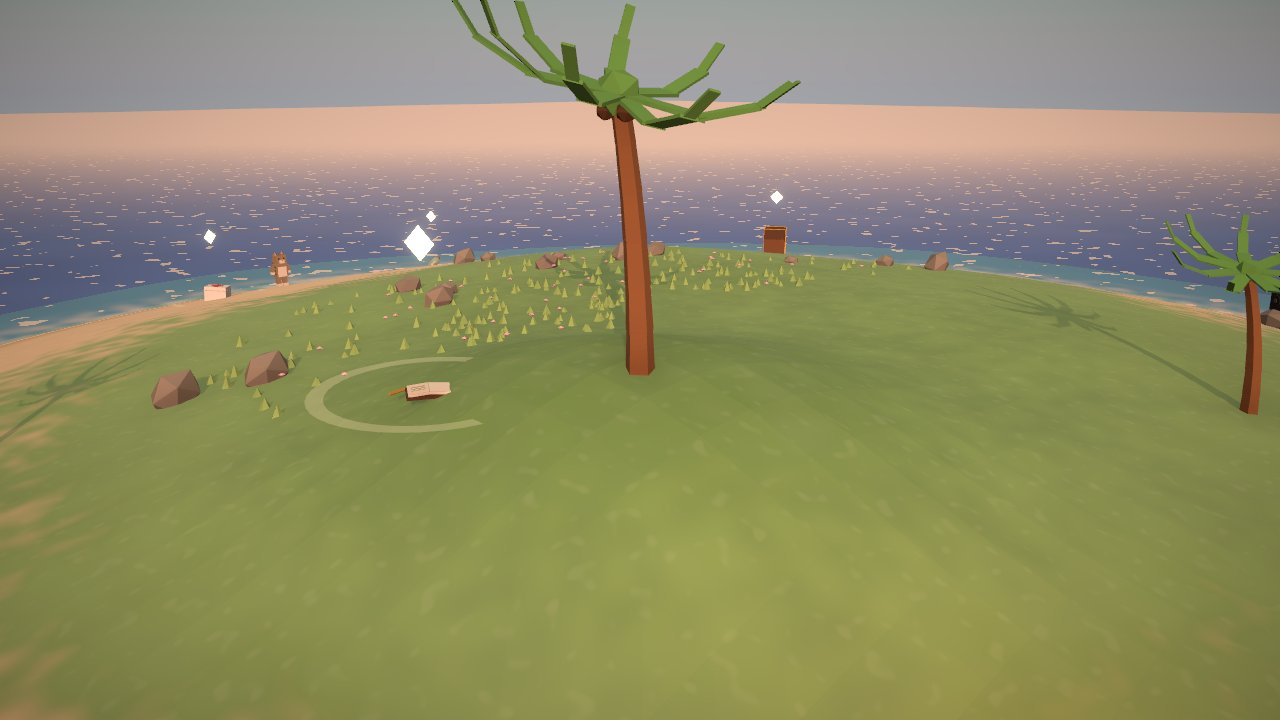
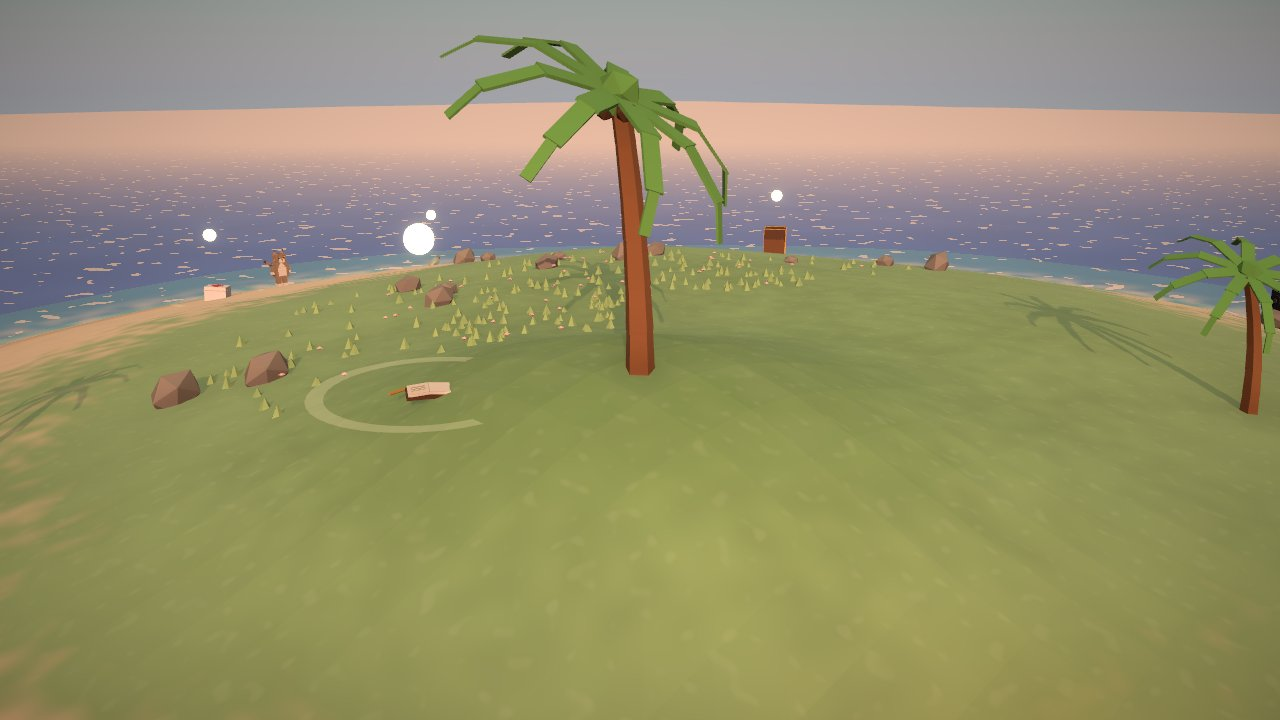
Apply David's design picks + fix fronds, night visibility, cat redesign
- Defaults: peach-lilac palette (c2), 3-band crisp toon water (b1),
  orb beacons (c), brown tabby
- Palm fronds now rise from the crown and droop past horizontal (the
  rotation signs were arching them upward); gallery tree shots redone
- Night keyframes brightened (moonlight 1.0, warmer fog, higher ambient)
  so the island stays readable after dark
- Bebo v2: two-part tapered torso, chest-fluff diamond, cheek tufts,
  hair tuft, eye shines + brow marks, whisker dots, peeking fang,
  splayed dark-tipped ears, hip zigzag stripes, four-segment tail
- OG image regenerated at the peach-lilac sunset

diff --git a/src/scene/PlayerCat.tsx b/src/scene/PlayerCat.tsx
@@ -53,6 +53,7 @@ function CatModel({ refs }: { refs: CatRefs }) {
       earInner: new THREE.MeshStandardMaterial({ color: TABBY.earInner, flatShading: true, roughness: 0.9 }),
       nose: new THREE.MeshStandardMaterial({ color: TABBY.nose, flatShading: true, roughness: 0.8 }),
       eye: new THREE.MeshStandardMaterial({ color: TABBY.eye, roughness: 0.35 }),
+      shine: new THREE.MeshStandardMaterial({ color: '#ffffff', roughness: 0.2 }),
     }),
     [],
   )
@@ -60,75 +61,140 @@ function CatModel({ refs }: { refs: CatRefs }) {
   return (
     <group scale={0.92}>
       <group ref={refs.body}>
-        {/* upright torso */}
-        <mesh castShadow material={mats.base} position={[0, 0.56, 0]}>
-          <boxGeometry args={[0.42, 0.44, 0.3]} />
+        {/* two-part torso: wider hips, tapered chest */}
+        <mesh castShadow material={mats.base} position={[0, 0.45, 0]}>
+          <boxGeometry args={[0.46, 0.24, 0.33]} />
         </mesh>
-        {/* tabby rings around the torso (belly patch covers the front) */}
-        {[0.46, 0.58, 0.7].map((y, i) => (
-          <mesh key={i} material={mats.stripe} position={[0, y, -0.01]}>
-            <boxGeometry args={[0.435, 0.045, 0.31]} />
-          </mesh>
-        ))}
+        <mesh castShadow material={mats.base} position={[0, 0.65, 0]}>
+          <boxGeometry args={[0.4, 0.3, 0.28]} />
+        </mesh>
         {/* cream belly, front */}
         <mesh material={mats.belly} position={[0, 0.53, 0.15]}>
-          <boxGeometry args={[0.3, 0.34, 0.04]} />
+          <boxGeometry args={[0.28, 0.3, 0.04]} />
         </mesh>
+        {/* chest-fluff diamond */}
+        <mesh material={mats.belly} position={[0, 0.72, 0.135]} rotation-z={Math.PI / 4}>
+          <boxGeometry args={[0.16, 0.16, 0.05]} />
+        </mesh>
+        {/* chunky back stripes, slightly tilted */}
+        {[
+          { y: 0.5, tilt: 0.12 },
+          { y: 0.62, tilt: -0.1 },
+          { y: 0.73, tilt: 0.08 },
+        ].map((s, i) => (
+          <mesh key={i} material={mats.stripe} position={[0, s.y, -0.145]} rotation-z={s.tilt}>
+            <boxGeometry args={[0.34, 0.06, 0.05]} />
+          </mesh>
+        ))}
+        {/* zigzag flank stripes, low on the hips so the arms stay clean */}
+        {[-1, 1].map((side) =>
+          [
+            { z: -0.1, y: 0.47, tilt: 0.3 },
+            { z: 0.0, y: 0.44, tilt: -0.3 },
+            { z: 0.09, y: 0.47, tilt: 0.25 },
+          ].map((s, i) => (
+            <mesh key={`${side}${i}`} material={mats.stripe} position={[side * 0.235, s.y, s.z]} rotation-x={s.tilt}>
+              <boxGeometry args={[0.03, 0.13, 0.05]} />
+            </mesh>
+          )),
+        )}
 
         {/* head (chibi-big) */}
-        <group ref={refs.head} position={[0, 0.95, 0.02]}>
+        <group ref={refs.head} position={[0, 0.98, 0.02]}>
           <mesh castShadow material={mats.base}>
             <boxGeometry args={[0.36, 0.3, 0.3]} />
+          </mesh>
+          {/* little hair tuft */}
+          <mesh castShadow material={mats.base} position={[0.06, 0.18, 0.05]} rotation-z={-0.35}>
+            <coneGeometry args={[0.045, 0.09, 4]} />
           </mesh>
           {/* forehead "M" */}
           {[-0.05, 0, 0.05].map((x, i) => (
             <mesh key={i} material={mats.stripe} position={[x, 0.155, 0.02]} rotation-y={x * -3}>
-              <boxGeometry args={[0.025, 0.012, 0.14]} />
+              <boxGeometry args={[0.028, 0.014, 0.14]} />
             </mesh>
           ))}
-          {/* muzzle + nose */}
-          <mesh material={mats.belly} position={[0, -0.06, 0.17]}>
-            <boxGeometry args={[0.16, 0.11, 0.09]} />
+          {/* cheek fluff tufts */}
+          <mesh castShadow material={mats.base} position={[-0.2, -0.07, 0.05]} rotation-z={Math.PI / 2 + 0.5}>
+            <coneGeometry args={[0.065, 0.13, 4]} />
           </mesh>
-          <mesh material={mats.nose} position={[0, -0.025, 0.222]}>
+          <mesh castShadow material={mats.base} position={[0.2, -0.07, 0.05]} rotation-z={-Math.PI / 2 - 0.5}>
+            <coneGeometry args={[0.065, 0.13, 4]} />
+          </mesh>
+          {/* muzzle, nose, mouth, fang */}
+          <mesh material={mats.belly} position={[0, -0.06, 0.175]}>
+            <boxGeometry args={[0.17, 0.12, 0.1]} />
+          </mesh>
+          <mesh material={mats.nose} position={[0, -0.02, 0.228]}>
             <boxGeometry args={[0.05, 0.035, 0.03]} />
           </mesh>
-          {/* eyes */}
+          <mesh material={mats.stripe} position={[0, -0.065, 0.226]}>
+            <boxGeometry args={[0.014, 0.03, 0.02]} />
+          </mesh>
+          <mesh material={mats.shine} position={[0.04, -0.115, 0.2]}>
+            <boxGeometry args={[0.022, 0.035, 0.02]} />
+          </mesh>
+          {/* whisker dots — two per side, out on the cheeks */}
+          {[-1, 1].map((side) =>
+            [
+              [0.125, -0.03],
+              [0.14, -0.065],
+            ].map(([x, y], i) => (
+              <mesh key={`${side}${i}`} material={mats.stripe} position={[side * x, y, 0.152]}>
+                <boxGeometry args={[0.018, 0.018, 0.012]} />
+              </mesh>
+            )),
+          )}
+          {/* eyes + shine + brow marks */}
           {[-0.09, 0.09].map((x, i) => (
-            <mesh key={i} material={mats.eye} position={[x, 0.035, 0.155]}>
-              <boxGeometry args={[0.05, 0.06, 0.02]} />
-            </mesh>
+            <group key={i}>
+              <mesh material={mats.eye} position={[x, 0.035, 0.155]}>
+                <boxGeometry args={[0.055, 0.075, 0.02]} />
+              </mesh>
+              <mesh material={mats.shine} position={[x + 0.014, 0.058, 0.157]}>
+                <boxGeometry args={[0.018, 0.022, 0.021]} />
+              </mesh>
+              <mesh material={mats.stripe} position={[x, 0.1, 0.155]} rotation-z={x > 0 ? -0.2 : 0.2}>
+                <boxGeometry args={[0.05, 0.016, 0.02]} />
+              </mesh>
+            </group>
           ))}
-          {/* ears */}
-          <mesh ref={refs.earL} castShadow material={mats.base} position={[-0.12, 0.2, -0.02]}>
-            <coneGeometry args={[0.08, 0.16, 4]} />
+          {/* ears: splayed, dark-tipped, pink inside */}
+          <mesh ref={refs.earL} castShadow material={mats.base} position={[-0.125, 0.2, -0.02]} rotation-z={0.14}>
+            <coneGeometry args={[0.09, 0.18, 4]} />
           </mesh>
-          <mesh ref={refs.earR} castShadow material={mats.base} position={[0.12, 0.2, -0.02]}>
-            <coneGeometry args={[0.08, 0.16, 4]} />
+          <mesh ref={refs.earR} castShadow material={mats.base} position={[0.125, 0.2, -0.02]} rotation-z={-0.14}>
+            <coneGeometry args={[0.09, 0.18, 4]} />
           </mesh>
-          <mesh material={mats.earInner} position={[-0.12, 0.17, 0.015]}>
-            <coneGeometry args={[0.045, 0.09, 4]} />
+          <mesh material={mats.stripe} position={[-0.152, 0.28, -0.02]} rotation-z={0.14}>
+            <coneGeometry args={[0.032, 0.06, 4]} />
           </mesh>
-          <mesh material={mats.earInner} position={[0.12, 0.17, 0.015]}>
-            <coneGeometry args={[0.045, 0.09, 4]} />
+          <mesh material={mats.stripe} position={[0.152, 0.28, -0.02]} rotation-z={-0.14}>
+            <coneGeometry args={[0.032, 0.06, 4]} />
+          </mesh>
+          <mesh material={mats.earInner} position={[-0.118, 0.17, 0.015]} rotation-z={0.14}>
+            <coneGeometry args={[0.05, 0.1, 4]} />
+          </mesh>
+          <mesh material={mats.earInner} position={[0.118, 0.17, 0.015]} rotation-z={-0.14}>
+            <coneGeometry args={[0.05, 0.1, 4]} />
           </mesh>
         </group>
 
-        {/* tail: three chained segments with tabby rings, curling up behind */}
-        <group ref={refs.tail[0]} position={[0, 0.42, -0.16]} rotation-x={0.7}>
-          <mesh castShadow material={mats.base} position={[0, 0, -0.13]}>
-            <boxGeometry args={[0.085, 0.085, 0.26]} />
+        {/* tail: four chained segments with tabby rings and a subtle kink */}
+        <group ref={refs.tail[0]} position={[0, 0.42, -0.18]} rotation-x={0.7}>
+          <mesh castShadow material={mats.base} position={[0.01, 0, -0.12]}>
+            <boxGeometry args={[0.09, 0.09, 0.24]} />
           </mesh>
-          <group ref={refs.tail[1]} position={[0, 0, -0.26]}>
-            <mesh castShadow material={mats.stripe} position={[0, 0, -0.11]}>
-              <boxGeometry args={[0.075, 0.075, 0.22]} />
+          <group ref={refs.tail[1]} position={[0, 0, -0.24]}>
+            <mesh castShadow material={mats.stripe} position={[-0.012, 0, -0.1]}>
+              <boxGeometry args={[0.08, 0.08, 0.2]} />
             </mesh>
-            <group ref={refs.tail[2]} position={[0, 0, -0.22]}>
-              <mesh castShadow material={mats.base} position={[0, 0, -0.08]}>
-                <boxGeometry args={[0.065, 0.065, 0.16]} />
+            <group ref={refs.tail[2]} position={[0, 0, -0.2]}>
+              <mesh castShadow material={mats.base} position={[0.01, 0, -0.085]}>
+                <boxGeometry args={[0.07, 0.07, 0.17]} />
               </mesh>
-              <mesh material={mats.stripe} position={[0, 0, -0.17]}>
-                <boxGeometry args={[0.06, 0.06, 0.06]} />
+              <mesh castShadow material={mats.stripe} position={[0, 0.005, -0.21]}>
+                <boxGeometry args={[0.06, 0.06, 0.1]} />
               </mesh>
             </group>
           </group>

diff --git a/src/config/design.ts b/src/config/design.ts
@@ -20,11 +20,12 @@ function pick<T extends string>(key: string, allowed: readonly T[]): T {
 const timeParam = params.get('time')
 
 export const DESIGN = {
-  palette: pick('palette', ['c1', 'c2', 'c3', 'c4'] as const),
+  // first entry = shipped default (David's picks)
+  palette: pick('palette', ['c2', 'c1', 'c3', 'c4'] as const),
   water: pick('water', ['b1', 'b2', 'b3', 'b4', 'a'] as const),
   tree: pick('tree', ['a', 'b', 'c', 'd', 'e'] as const),
   cat: pick('cat', ['a', 'b', 'c', 'd'] as const),
-  beacon: pick('beacon', ['a', 'b', 'c'] as const),
+  beacon: pick('beacon', ['c', 'a', 'b'] as const),
   /** frozen clock hour for previews, or null to follow real local time */
   time: timeParam !== null && Number.isFinite(Number(timeParam)) ? ((Number(timeParam) % 24) + 24) % 24 : null,
   autostart: params.has('autostart'),
@@ -95,15 +96,15 @@ export interface MoodFrame {
 const P = PALETTES[DESIGN.palette]
 
 const KEYFRAMES: MoodFrame[] = [
-  { h: 0.0, sky: { sun: [-30, -8, -60], turbidity: 3, rayleigh: 0.6, mie: 0.003, g: 0.8 }, sun: { color: '#8fa8d6', intensity: 0.55, position: [-20, 18, -24] }, hemi: { sky: '#46557a', ground: '#23222e', intensity: 0.4 }, env: 0.12, fog: { color: '#303752', near: 26, far: 88 }, exposure: 0.92, stars: 1 },
-  { h: 5.0, sky: { sun: [-30, -8, -60], turbidity: 3, rayleigh: 0.6, mie: 0.003, g: 0.8 }, sun: { color: '#8fa8d6', intensity: 0.55, position: [-20, 18, -24] }, hemi: { sky: '#46557a', ground: '#23222e', intensity: 0.4 }, env: 0.12, fog: { color: '#303752', near: 26, far: 88 }, exposure: 0.92, stars: 1 },
+  { h: 0.0, sky: { sun: [-30, -8, -60], turbidity: 3, rayleigh: 0.6, mie: 0.003, g: 0.8 }, sun: { color: '#a8bce8', intensity: 1.0, position: [-20, 18, -24] }, hemi: { sky: '#5d6f9e', ground: '#3a3648', intensity: 0.6 }, env: 0.28, fog: { color: '#454e74', near: 28, far: 95 }, exposure: 1.0, stars: 1 },
+  { h: 5.0, sky: { sun: [-30, -8, -60], turbidity: 3, rayleigh: 0.6, mie: 0.003, g: 0.8 }, sun: { color: '#a8bce8', intensity: 1.0, position: [-20, 18, -24] }, hemi: { sky: '#5d6f9e', ground: '#3a3648', intensity: 0.6 }, env: 0.28, fog: { color: '#454e74', near: 28, far: 95 }, exposure: 1.0, stars: 1 },
   { h: 6.75, sky: { sun: [70, 3, 40], turbidity: 8, rayleigh: 2.8, mie: 0.012, g: 0.82 }, sun: { color: '#ffb9a0', intensity: 1.6, position: [26, 10, 18] }, hemi: { sky: '#f6cdd4', ground: '#6f6055', intensity: 0.45 }, env: 0.35, fog: { color: '#e8c3c4', near: 31, far: 98 }, exposure: 1.02, stars: 0 },
   { h: 9.5, sky: { sun: [25, 50, -15], turbidity: 3.2, rayleigh: 1.1, mie: 0.004, g: 0.75 }, sun: { color: '#fff0d6', intensity: 2.25, position: [18, 30, -12] }, hemi: { sky: '#dcecf4', ground: '#9a8a70', intensity: 0.45 }, env: 0.4, fog: { color: '#d9e6e8', near: 35, far: 112 }, exposure: 1.02, stars: 0 },
   { h: 16.0, sky: { sun: [25, 50, -15], turbidity: 3.2, rayleigh: 1.1, mie: 0.004, g: 0.75 }, sun: { color: '#fff0d6', intensity: 2.25, position: [18, 30, -12] }, hemi: { sky: '#dcecf4', ground: '#9a8a70', intensity: 0.45 }, env: 0.4, fog: { color: '#d9e6e8', near: 35, far: 112 }, exposure: 1.02, stars: 0 },
   { h: 17.75, sky: { sun: [42, 7, -55], turbidity: 7, rayleigh: 2.4, mie: 0.009, g: 0.85 }, sun: { color: '#ffc48c', intensity: 2.4, position: [24, 13, -27] }, hemi: { sky: '#ffd9b0', ground: '#8d7458', intensity: 0.5 }, env: 0.5, fog: { color: '#f0c1a6', near: 31, far: 103 }, exposure: 1.08, stars: 0 },
   { h: 19.25, sky: { sun: [-55, 4, 70], turbidity: 9.5, rayleigh: 3.2, mie: 0.02, g: 0.82 }, sun: { color: P.sunset.sun, intensity: 2.15, position: [-22, 11, 24] }, hemi: { sky: P.sunset.hemiSky, ground: '#93786a', intensity: 0.5 }, env: 0.5, fog: { color: P.sunset.fog, near: 30, far: 97 }, exposure: 1.06, stars: 0 },
-  { h: 20.75, sky: { sun: [-45, 0.5, -70], turbidity: 8, rayleigh: 3.6, mie: 0.012, g: 0.86 }, sun: { color: '#d98ba0', intensity: 1.2, position: [-24, 10, -26] }, hemi: { sky: '#8f7ba6', ground: '#4c4350', intensity: 0.42 }, env: 0.25, fog: { color: '#8a7396', near: 28, far: 92 }, exposure: 0.98, stars: 0.35 },
-  { h: 22.25, sky: { sun: [-30, -8, -60], turbidity: 3, rayleigh: 0.6, mie: 0.003, g: 0.8 }, sun: { color: '#8fa8d6', intensity: 0.55, position: [-20, 18, -24] }, hemi: { sky: '#46557a', ground: '#23222e', intensity: 0.4 }, env: 0.12, fog: { color: '#303752', near: 26, far: 88 }, exposure: 0.92, stars: 1 },
+  { h: 20.75, sky: { sun: [-45, 0.5, -70], turbidity: 8, rayleigh: 3.6, mie: 0.012, g: 0.86 }, sun: { color: '#d98ba0', intensity: 1.35, position: [-24, 10, -26] }, hemi: { sky: '#8f7ba6', ground: '#4c4350', intensity: 0.5 }, env: 0.3, fog: { color: '#8a7396', near: 28, far: 92 }, exposure: 1.0, stars: 0.35 },
+  { h: 22.25, sky: { sun: [-30, -8, -60], turbidity: 3, rayleigh: 0.6, mie: 0.003, g: 0.8 }, sun: { color: '#a8bce8', intensity: 1.0, position: [-20, 18, -24] }, hemi: { sky: '#5d6f9e', ground: '#3a3648', intensity: 0.6 }, env: 0.28, fog: { color: '#454e74', near: 28, far: 95 }, exposure: 1.0, stars: 1 },
 ]
 
 // -- tiny color/number lerp helpers (no three.js in this bundle) --

diff --git a/src/scene/PalmTree.tsx b/src/scene/PalmTree.tsx
@@ -48,6 +48,9 @@ function Trunk({ segs, color = PALETTE.palmTrunk }: { segs: ReturnType<typeof bu
   )
 }
 
+// Fronds rise out of the crown (negative base tilt), then each segment bends
+// DOWN (positive x-rotation) so the tips droop below horizontal like a real
+// palm. `droop` > 0 = heavier hang; < 0 = perkier.
 function Frond({
   angle,
   droop,
@@ -62,17 +65,17 @@ function Frond({
   color: string
 }) {
   return (
-    <group rotation-y={angle} rotation-x={-0.22 - droop} scale={[width, 1, length]}>
+    <group rotation-y={angle} rotation-x={-0.55 + droop * 0.35} scale={[width, 1, length]}>
       <mesh castShadow position={[0, 0, 0.44]}>
         <boxGeometry args={[0.24, 0.035, 0.88]} />
         <meshStandardMaterial color={color} flatShading />
       </mesh>
-      <group position={[0, 0, 0.86]} rotation-x={-0.38 - droop * 0.55}>
+      <group position={[0, 0, 0.86]} rotation-x={0.45 + droop * 0.45}>
         <mesh castShadow position={[0, 0, 0.3]}>
           <boxGeometry args={[0.18, 0.03, 0.6]} />
           <meshStandardMaterial color={color} flatShading />
         </mesh>
-        <group position={[0, 0, 0.58]} rotation-x={-0.45}>
+        <group position={[0, 0, 0.58]} rotation-x={0.5 + droop * 0.25}>
           <mesh castShadow position={[0, 0, 0.2]}>
             <boxGeometry args={[0.11, 0.025, 0.4]} />
             <meshStandardMaterial color={color} flatShading />
